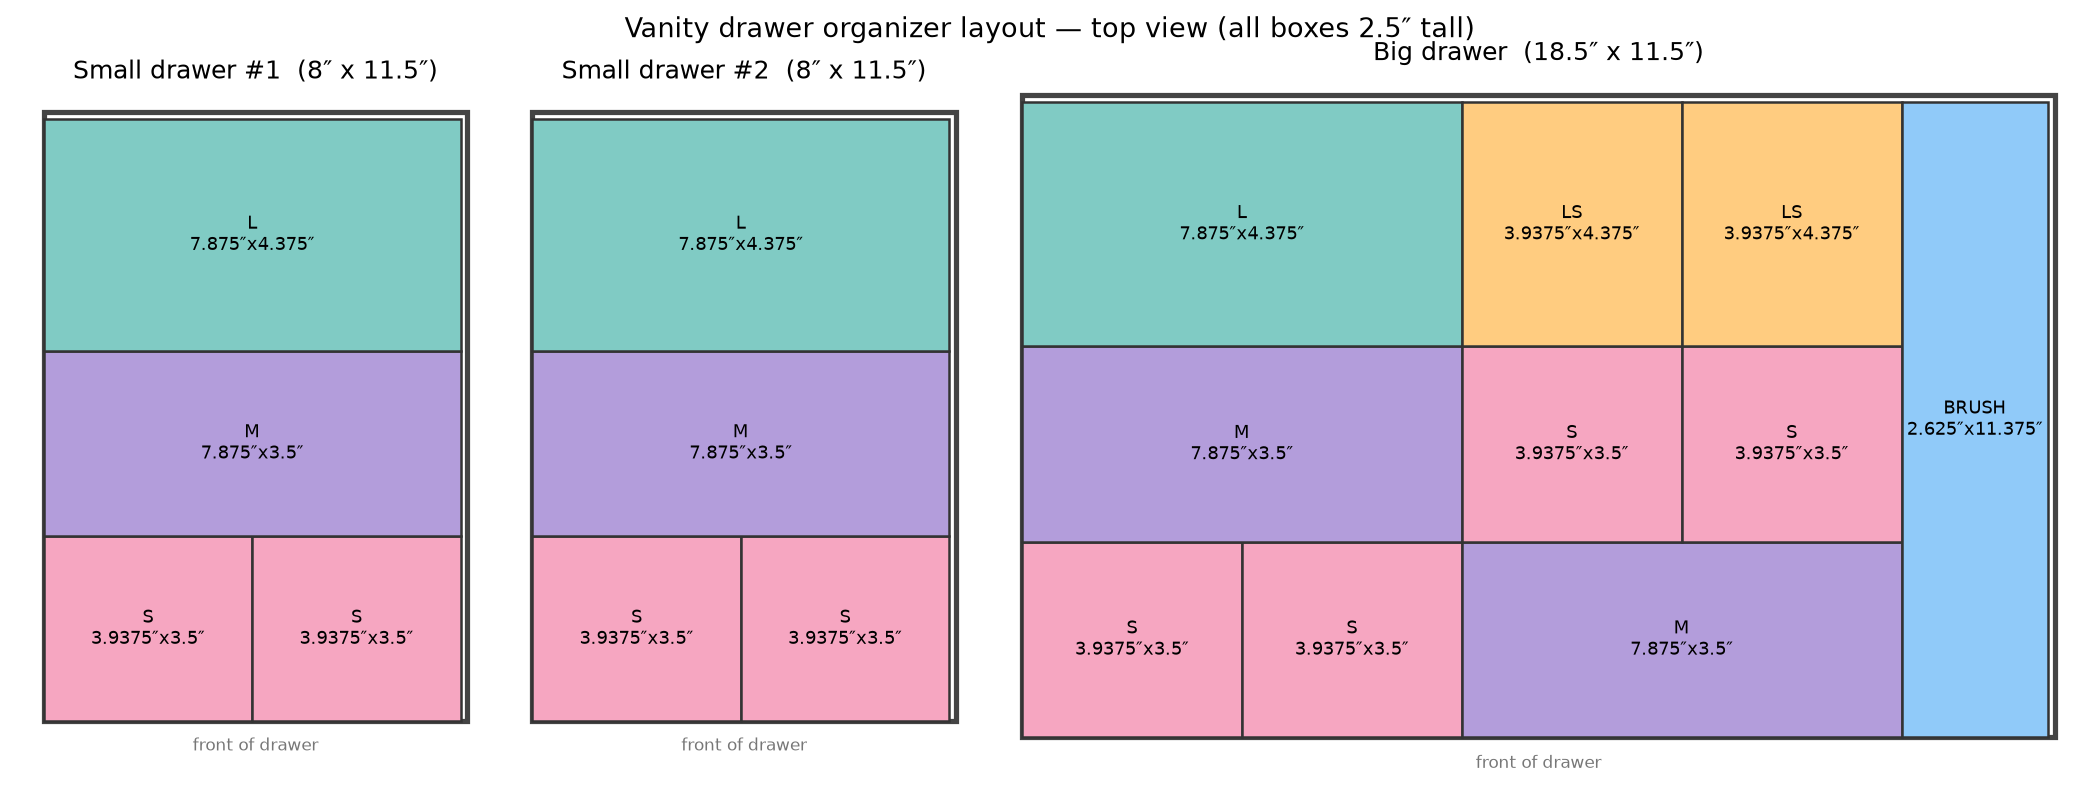
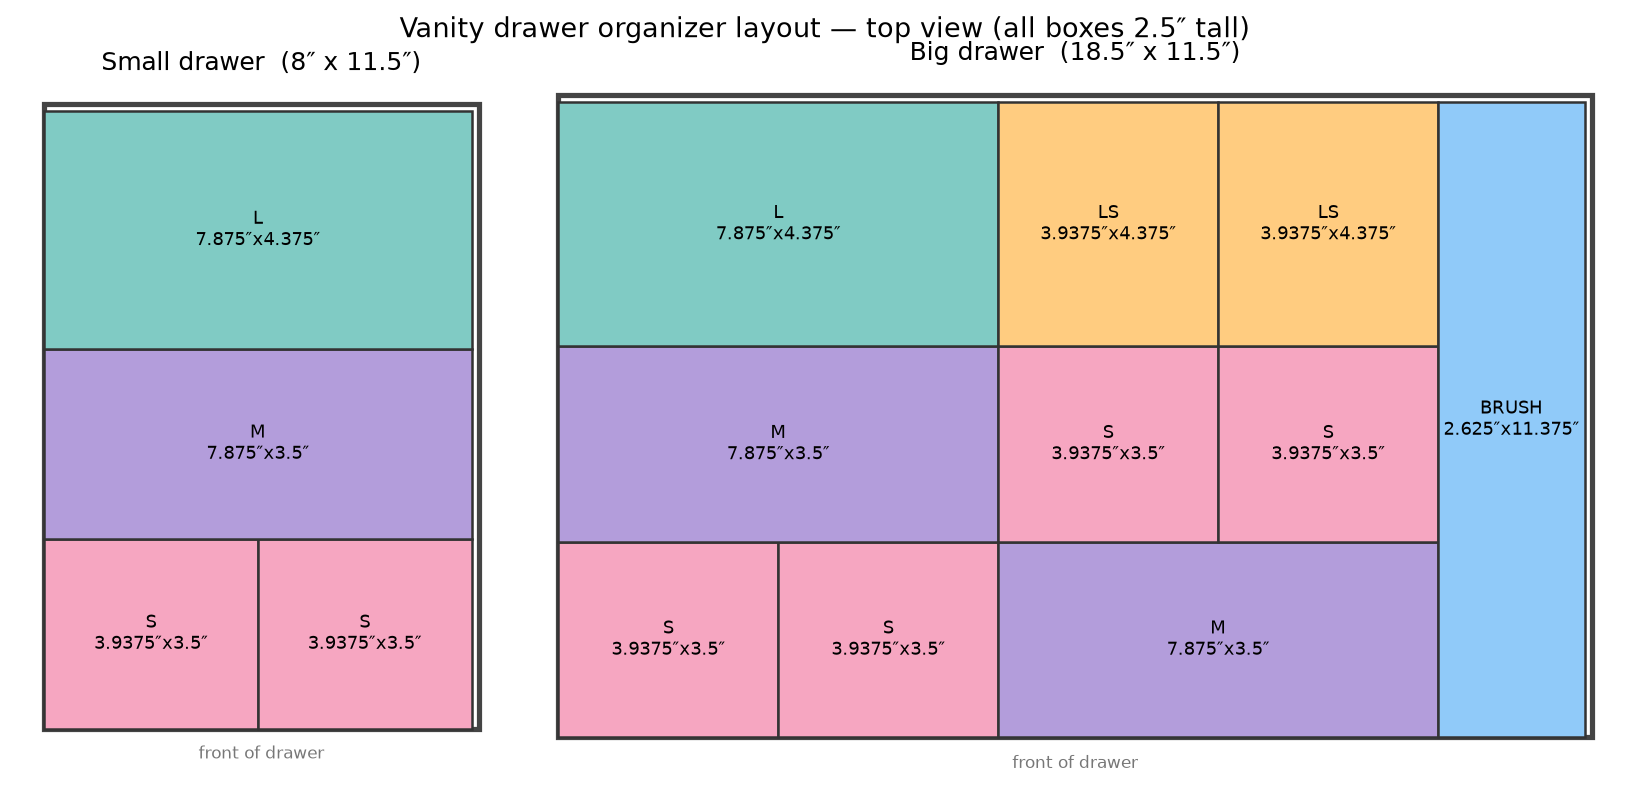
Update organizer kit for one small drawer (14 boxes total)
Claude-Session: https://claude.ai/code/session_013D8fi18C49ZeGAK5Pwc8vQ

diff --git a/src/generate_vanity_organizer.py b/src/generate_vanity_organizer.py
@@ -2,8 +2,8 @@
 """Vanity drawer organizer boxes — a 5-size kit that tiles 3 drawers.
 
 Drawers (interior, inches):
-  * 1x big drawer:    11.5 front-to-back x 18.5 wide
-  * 2x small drawers: 11.5 front-to-back x  8.0 wide
+  * 1x big drawer:   11.5 front-to-back x 18.5 wide
+  * 1x small drawer: 11.5 front-to-back x  8.0 wide
 
 All boxes are 2.5 in tall. The kit shares one row system front-to-back
 (3.5 + 3.5 + 4.375 = 11.375 in) so every drawer uses the same box sizes:
@@ -56,7 +56,7 @@ SIZES = {
 }
 
 DRAWERS = {
-    "small drawer (x2)": (8.0, 11.5),
+    "small drawer": (8.0, 11.5),
     "big drawer": (18.5, 11.5),
 }
 
@@ -72,7 +72,7 @@ BIG_COL2 = [
     ("LS", 0.0, ROW_FB[0] + ROW_FB[1]), ("LS", COL_W_SMALL / 2, ROW_FB[0] + ROW_FB[1]),
 ]
 LAYOUTS = {
-    "small drawer (x2)": SMALL_COL,
+    "small drawer": SMALL_COL,
     "big drawer": (
         SMALL_COL
         + [(n, x + COL_W_SMALL, y) for n, x, y in BIG_COL2]
@@ -117,10 +117,10 @@ def render_layout(path):
     colors = {"S": "#f6a6c1", "M": "#b39ddb", "L": "#80cbc4",
               "LS": "#ffcc80", "BRUSH": "#90caf9"}
     fig, axes = plt.subplots(
-        1, 3, figsize=(14, 5.4),
-        gridspec_kw={"width_ratios": [8, 8, 18.5]})
-    order = ["small drawer (x2)", "small drawer (x2)", "big drawer"]
-    titles = ["Small drawer #1", "Small drawer #2", "Big drawer"]
+        1, 2, figsize=(11, 5.4),
+        gridspec_kw={"width_ratios": [8, 18.5]})
+    order = ["small drawer", "big drawer"]
+    titles = ["Small drawer", "Big drawer"]
     for ax, drawer, title in zip(axes, order, titles):
         dw, dfb = DRAWERS[drawer]
         ax.add_patch(Rectangle((0, 0), dw, dfb, fill=False, lw=2.5,
@@ -153,10 +153,9 @@ def main():
     os.makedirs(out, exist_ok=True)
 
     counts = {}
-    for drawer, layout in LAYOUTS.items():
-        mult = 2 if "x2" in drawer else 1
+    for layout in LAYOUTS.values():
         for name, _, _ in layout:
-            counts[name] = counts.get(name, 0) + mult
+            counts[name] = counts.get(name, 0) + 1
 
     for name, (w, fb) in SIZES.items():
         box = make_box(w, fb)

diff --git a/README.md b/README.md
@@ -154,8 +154,8 @@ the layer lines.
 
 ## Vanity drawer organizers (`models/vanity_organizer/`)
 
-A 5-size kit of makeup organizer boxes that tiles all 3 vanity drawers like a
-puzzle — one 11.5″ × 18.5″ big drawer and two 11.5″ × 8″ small drawers. All
+A 5-size kit of makeup organizer boxes that tiles the vanity drawers like a
+puzzle — one 11.5″ × 18.5″ big drawer and one 11.5″ × 8″ small drawer. All
 boxes are **2.5″ tall** and every drawer shares the same row system, so the
 same handful of sizes fills everything:
 
@@ -163,13 +163,13 @@ same handful of sizes fills everything:
 
 | File | Size (W × front-to-back) | Print | Good for |
 |------|--------------------------|-------|----------|
-| `box_S.stl`     | 3.94″ × 3.5″   | **8×** | lip gloss, hair ties, small stuff |
-| `box_M.stl`     | 7.875″ × 3.5″  | **4×** | compacts, blush, mid trays |
-| `box_L.stl`     | 7.875″ × 4.375″| **3×** | palettes, bottles (back row) |
+| `box_S.stl`     | 3.94″ × 3.5″   | **6×** | lip gloss, hair ties, small stuff |
+| `box_M.stl`     | 7.875″ × 3.5″  | **3×** | compacts, blush, mid trays |
+| `box_L.stl`     | 7.875″ × 4.375″| **2×** | palettes, bottles (back row) |
 | `box_LS.stl`    | 3.94″ × 4.375″ | **2×** | half-width back bins |
 | `box_BRUSH.stl` | 2.625″ × 11.375″| **1×** | full-length brush / pencil tray |
 
-That's **18 boxes total**: 4 per small drawer, 10 in the big drawer. Each
+That's **14 boxes total**: 4 in the small drawer, 10 in the big drawer. Each
 drawer ends up with ~⅛″ of wiggle room in both directions so the set drops in
 easily but doesn't slide around.
 
